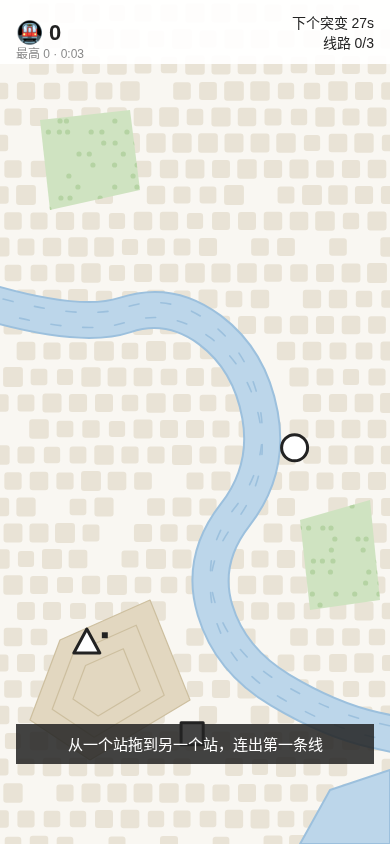
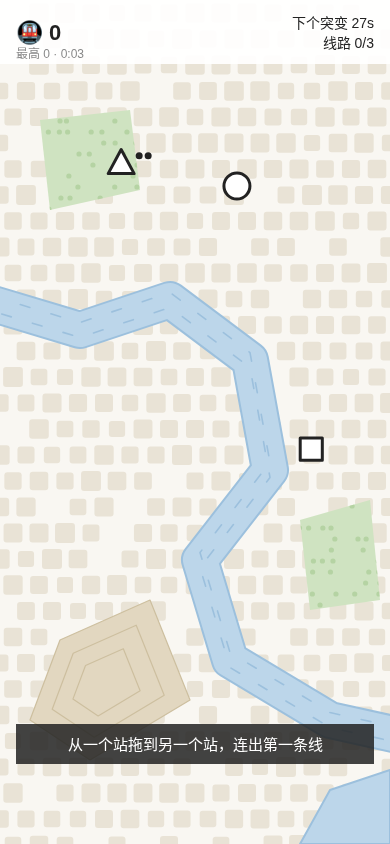
art: 底图改用 forge 的 LEVEL1 格式（{x,y}、river.center），河按折线画以对齐水域判定

diff --git a/src/art/basemap.ts b/src/art/basemap.ts
@@ -1,25 +1,21 @@
-import type { LevelMap, Poly, Pt } from '../map/types';
+import type { LevelMap, Poly } from '../map/types';
+const W = 390, H = 844;
 import { PALETTE as P } from './palette';
 
 /** 底图：静态层（街区、公园、丘陵、海岸、河）缓存到离屏画布；河水波纹每帧按 t 重画。 */
 let cache: { map: LevelMap; dpr: number; cv: HTMLCanvasElement } | null = null;
 
 function poly(c: CanvasRenderingContext2D, pts: Poly) {
-  c.beginPath(); pts.forEach(([x, y], i) => (i ? c.lineTo(x, y) : c.moveTo(x, y))); c.closePath();
+  c.beginPath(); pts.forEach(({ x, y }, i) => (i ? c.lineTo(x, y) : c.moveTo(x, y))); c.closePath();
 }
-/** 过中点的二次曲线，把折线中心线画成平滑河道 */
+/** 河按折线画（圆角连接），与 forge 的水域判定保持一致 */
 function smooth(c: CanvasRenderingContext2D, pts: Poly) {
-  c.beginPath(); c.moveTo(pts[0][0], pts[0][1]);
-  for (let i = 1; i < pts.length - 1; i++) {
-    const [x, y] = pts[i], [nx, ny] = pts[i + 1];
-    c.quadraticCurveTo(x, y, (x + nx) / 2, (y + ny) / 2);
-  }
-  const l = pts[pts.length - 1]; c.lineTo(l[0], l[1]);
+  c.beginPath(); pts.forEach(({ x, y }, i) => (i ? c.lineTo(x, y) : c.moveTo(x, y)));
 }
 function hash(x: number, y: number) { const s = Math.sin(x * 127.1 + y * 311.7) * 43758.5453; return s - Math.floor(s); }
 
 function buildStatic(map: LevelMap, dpr: number) {
-  const { w, h } = map.size, cv = document.createElement('canvas');
+  const w = W, h = H, cv = document.createElement('canvas');
   cv.width = w * dpr; cv.height = h * dpr;
   const c = cv.getContext('2d')!; c.scale(dpr, dpr);
   c.fillStyle = P.street; c.fillRect(0, 0, w, h);
@@ -34,9 +30,9 @@ function buildStatic(map: LevelMap, dpr: number) {
   for (const hl of map.hills) {
     c.fillStyle = P.hill; poly(c, hl); c.fill();
     // 等高线：向中心收缩三圈
-    const cx = hl.reduce((a, p) => a + p[0], 0) / hl.length, cy = hl.reduce((a, p) => a + p[1], 0) / hl.length;
+    const cx = hl.reduce((a, p) => a + p.x, 0) / hl.length, cy = hl.reduce((a, p) => a + p.y, 0) / hl.length;
     c.strokeStyle = P.hillLine; c.lineWidth = 1.2;
-    for (const k of [1, 0.7, 0.42]) { poly(c, hl.map(([x, y]) => [cx + (x - cx) * k, cy + (y - cy) * k] as Pt)); c.stroke(); }
+    for (const k of [1, 0.7, 0.42]) { poly(c, hl.map(({ x, y }) => ({ x: cx + (x - cx) * k, y: cy + (y - cy) * k }))); c.stroke(); }
   }
   for (const pk of map.parks) {
     c.fillStyle = P.park; poly(c, pk); c.fill();
@@ -47,20 +43,20 @@ function buildStatic(map: LevelMap, dpr: number) {
   c.fillStyle = P.water; poly(c, map.sea); c.fill();
   c.strokeStyle = P.waterLine; c.lineWidth = 2; poly(c, map.sea); c.stroke();
   // 河：先画宽一点的岸线，再画水面
-  smooth(c, map.river.path); c.strokeStyle = P.waterLine; c.lineWidth = map.river.width + 4; c.stroke();
-  smooth(c, map.river.path); c.strokeStyle = P.water; c.lineWidth = map.river.width; c.stroke();
+  smooth(c, map.river.center); c.strokeStyle = P.waterLine; c.lineWidth = map.river.width + 4; c.stroke();
+  smooth(c, map.river.center); c.strokeStyle = P.water; c.lineWidth = map.river.width; c.stroke();
   return cv;
 }
 
 export function drawBasemap(ctx: CanvasRenderingContext2D, map: LevelMap, t: number) {
   const dpr = ctx.getTransform().a || 1;
   if (!cache || cache.map !== map || cache.dpr !== dpr) cache = { map, dpr, cv: buildStatic(map, dpr) };
-  ctx.drawImage(cache.cv, 0, 0, map.size.w, map.size.h);
+  ctx.drawImage(cache.cv, 0, 0, W, H);
   // 波纹：沿河中心线的虚线缓慢流动，两条错开
-  ctx.save(); ctx.lineCap = 'round'; ctx.strokeStyle = P.waterLine; ctx.lineWidth = 1.6;
+  ctx.save(); ctx.lineCap = ctx.lineJoin = 'round'; ctx.strokeStyle = P.waterLine; ctx.lineWidth = 1.6;
   for (const [off, k] of [[-0.22, 1], [0.22, 1.3]] as const) {
     ctx.setLineDash([10, 22]); ctx.lineDashOffset = -t * 14 * k;
-    smooth(ctx, map.river.path.map(([x, y]) => [x, y + off * map.river.width] as Pt)); ctx.stroke();
+    smooth(ctx, map.river.center.map(({ x, y }) => ({ x, y: y + off * map.river.width }))); ctx.stroke();
   }
   ctx.restore();
 }

diff --git a/src/art/basemap.sample.ts b/src/art/basemap.sample.ts
@@ -1,9 +1,8 @@
 import type { LevelMap } from '../map/types';
 /** 样例地形，仅用于底图开发与截图；正式数据见 forge 的 src/map/level1.ts。 */
 export const SAMPLE_MAP: LevelMap = {
-  size: { w: 390, h: 844 },
-  river: { path: [[-20, 300], [80, 330], [170, 300], [250, 360], [270, 470], [200, 560], [230, 660], [330, 720], [420, 740]], width: 34 },
-  sea: [[300, 844], [330, 790], [390, 770], [390, 844]],
-  parks: [[[40, 120], [130, 110], [140, 190], [50, 210]], [[300, 520], [370, 500], [380, 600], [310, 610]]],
-  hills: [[[60, 640], [150, 600], [190, 700], [90, 760], [30, 720]]],
+  river: { center: [{ x: -20, y: 300 }, { x: 80, y: 330 }, { x: 170, y: 300 }, { x: 250, y: 360 }, { x: 270, y: 470 }, { x: 200, y: 560 }, { x: 230, y: 660 }, { x: 330, y: 720 }, { x: 420, y: 740 }], width: 34 },
+  sea: [{ x: 300, y: 844 }, { x: 330, y: 790 }, { x: 390, y: 770 }, { x: 390, y: 844 }],
+  parks: [[{ x: 40, y: 120 }, { x: 130, y: 110 }, { x: 140, y: 190 }, { x: 50, y: 210 }], [{ x: 300, y: 520 }, { x: 370, y: 500 }, { x: 380, y: 600 }, { x: 310, y: 610 }]],
+  hills: [[{ x: 60, y: 640 }, { x: 150, y: 600 }, { x: 190, y: 700 }, { x: 90, y: 760 }, { x: 30, y: 720 }]],
 };
